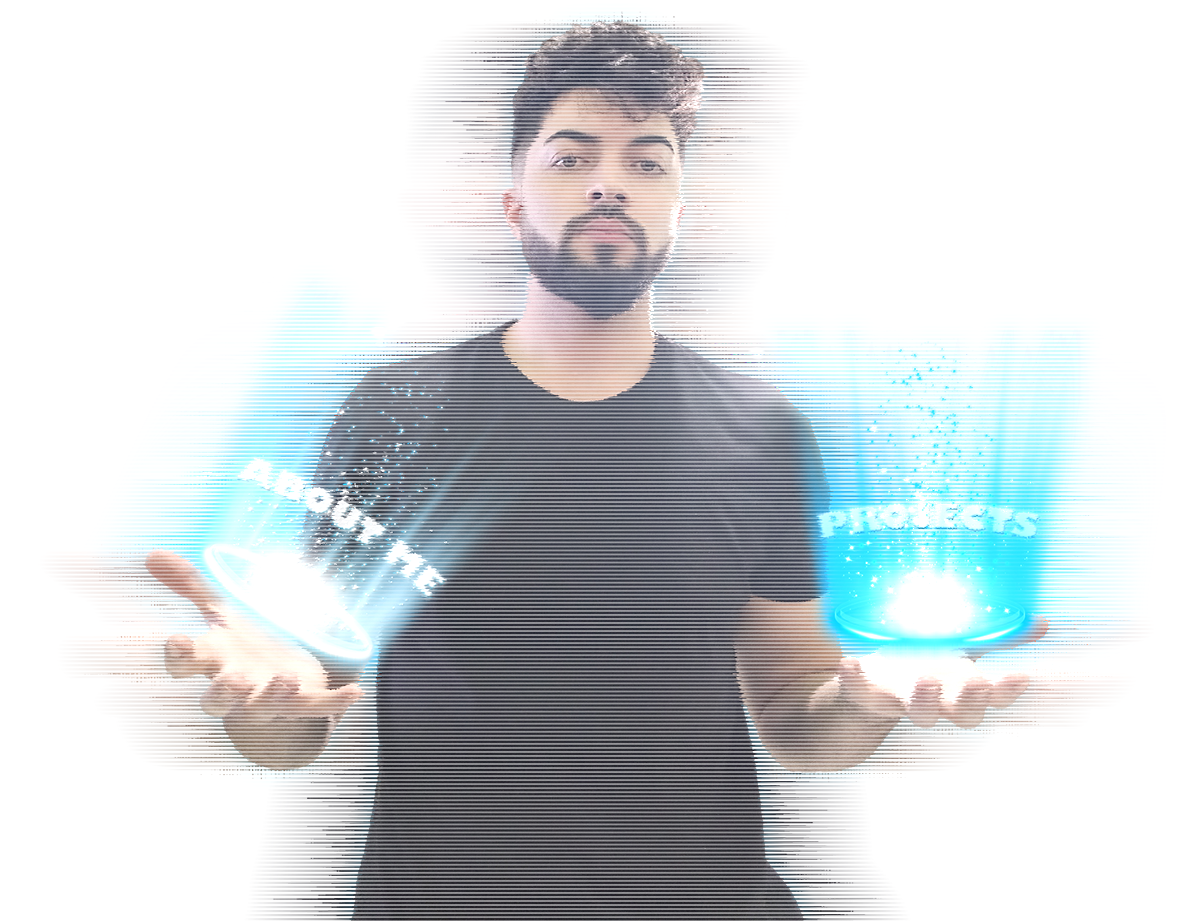
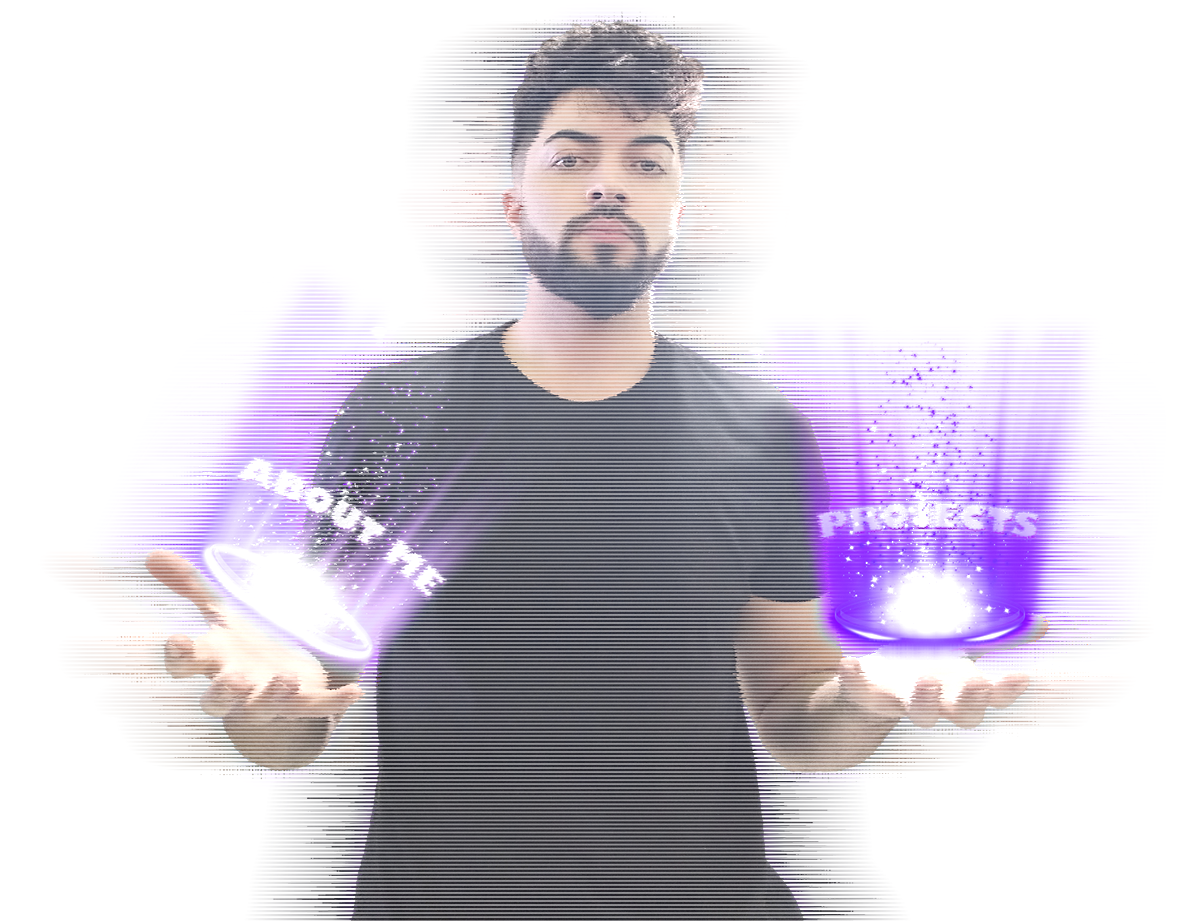
imgOptions new color - purple

Changed region(s): [[0.6407, 0.3648, 0.9458, 0.7296], [0.122, 0.304, 0.3966, 0.76], [0.2136, 0.6688, 0.2441, 0.6992]]

diff --git a/index.html b/index.html
@@ -47,11 +47,13 @@
             </div>
 
             <div id="social">
-                <svg width="100" height="100" viewBox="0 0 100 100" fill="none" xmlns="http://www.w3.org/2000/svg">
-                    <path
-                        d="M91.6667 25C91.6667 20.4167 87.9167 16.6667 83.3333 16.6667H16.6666C12.0833 16.6667 8.33331 20.4167 8.33331 25V75C8.33331 79.5833 12.0833 83.3333 16.6666 83.3333H83.3333C87.9167 83.3333 91.6667 79.5833 91.6667 75V25ZM83.3333 25L50 45.8333L16.6666 25H83.3333ZM83.3333 75H16.6666V33.3333L50 54.1667L83.3333 33.3333V75Z"
-                        fill="white" />
-                </svg>
+                <a href="https://www.google.com.br" target="__blank">
+                    <svg width="100" height="100" viewBox="0 0 100 100" fill="none" xmlns="http://www.w3.org/2000/svg">
+                        <path
+                            d="M91.6667 25C91.6667 20.4167 87.9167 16.6667 83.3333 16.6667H16.6666C12.0833 16.6667 8.33331 20.4167 8.33331 25V75C8.33331 79.5833 12.0833 83.3333 16.6666 83.3333H83.3333C87.9167 83.3333 91.6667 79.5833 91.6667 75V25ZM83.3333 25L50 45.8333L16.6666 25H83.3333ZM83.3333 75H16.6666V33.3333L50 54.1667L83.3333 33.3333V75Z"
+                            fill="white" />
+                    </svg>
+                </a>
 
                 <svg width="100" height="100" viewBox="0 0 100 100" fill="none" xmlns="http://www.w3.org/2000/svg">
                     <path
